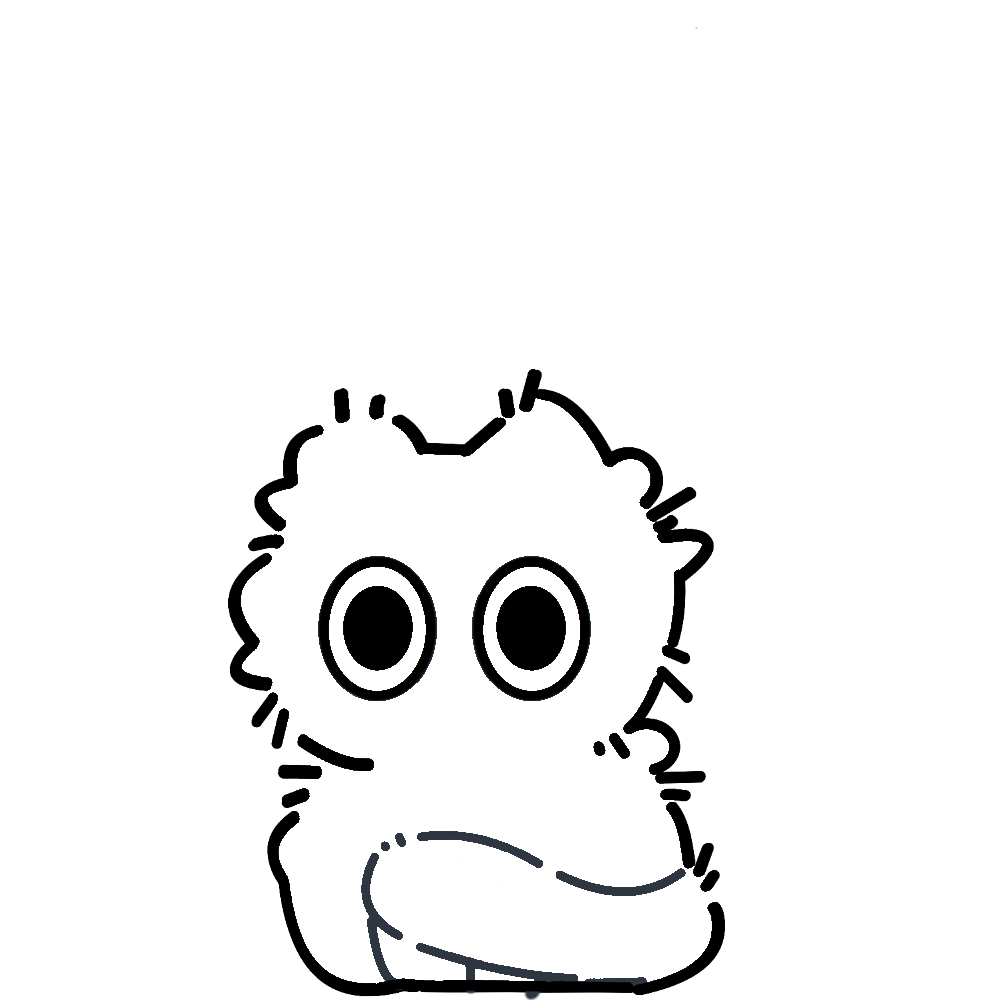
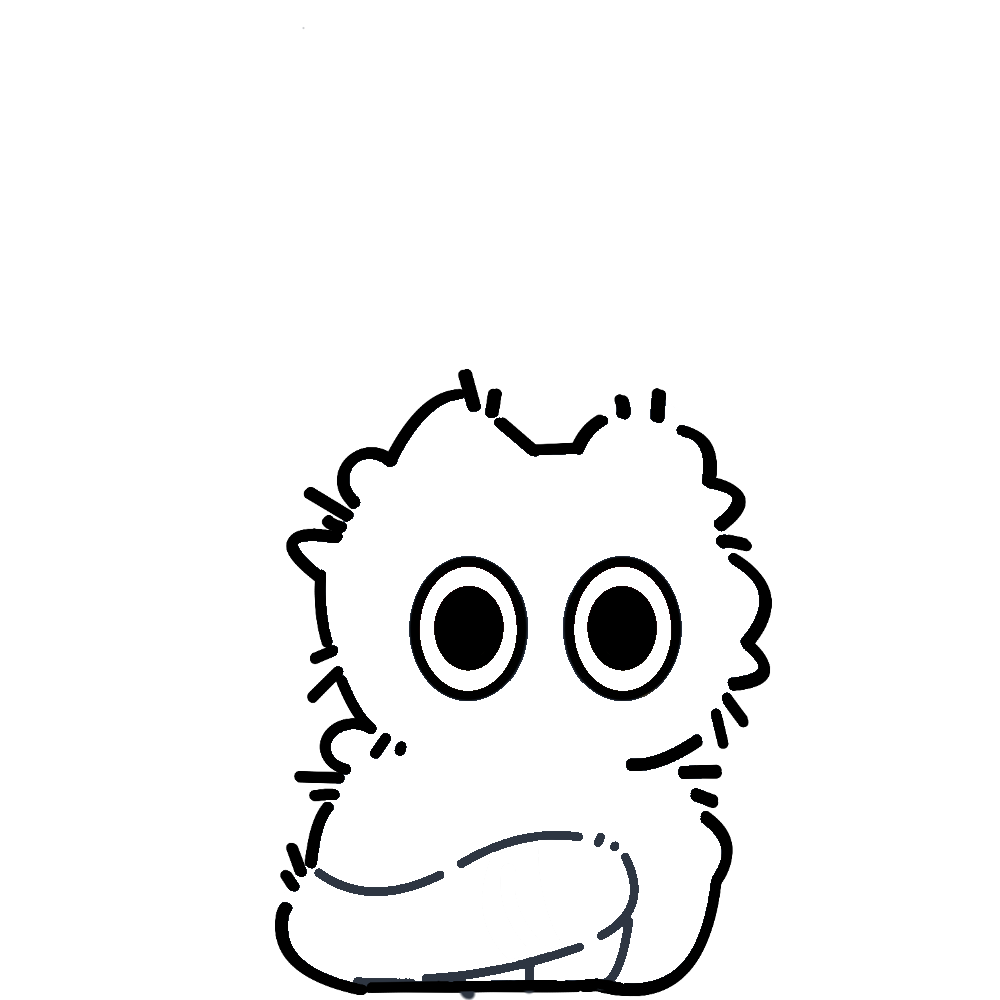
feat: summoned home-preview animation pool and Bai Su outing assets

Changed region(s): [[0.217, 0.372, 0.775, 1.0], [0.434, 0.806, 0.589, 0.868]]

diff --git a/app/src/main/java/com/cx/cakepet/PreviewPlayer.kt b/app/src/main/java/com/cx/cakepet/PreviewPlayer.kt
@@ -30,30 +30,57 @@ class PreviewPlayer(
     private var summonedPlaceholder: Bitmap? = null
     private val handler = Handler(Looper.getMainLooper())
     private var running = false
+    private var previewScene = ""
     private var lastTick = 0L
     private val FRAME_MS = 33L   // 约 30fps 推进状态机，足够平滑且省电
 
     fun start() {
-        if (running) return
+        if (running && previewScene == "normal") return
+        stop()
+        previewScene = "normal"
         running = true
-        // 进入“无重力静止池”，从静坐开始（正式配置的自然起点，等同“静坐一遍”的起点）。
-        // 起点动作由素材包 functions 的 [static, sit] 提供（v1.01），代码不写死模式名；
-        // 包未提供该功能则保持当前动作（跳过，不回退）。
+        // Ordinary home previews retain their existing independent static-pool behavior.
+        mgr.setActiveStateFunction(null)
         mgr.useStaticPool = true
         mgr.modeOf("static", "sit")?.let { mgr.setMode(it) }
         lastTick = System.currentTimeMillis()
-        renderCurrent()     // 立即渲染起始帧
+        renderCurrent()
+        postTick()
+    }
+
+    /** Summoned cards use their own optional function pool, not a frozen placeholder.
+     * Normal Mode frames, continuation links and pool reselection are unchanged.
+     */
+    fun startSummonedPreview() {
+        if (running && previewScene == "summoned") return
+        val path = MaterialFunctionSupport.SUMMONED
+        val startMode = mgr.modeOf(*path.toTypedArray())
+        if (startMode == null) {
+            showSummonedPlaceholder()
+            return
+        }
+        stop()
+        previewScene = "summoned"
+        mgr.useStaticPool = true
+        mgr.setActiveStateFunction(path)
+        mgr.setMode(startMode)
+        running = true
+        lastTick = System.currentTimeMillis()
+        renderCurrent()
+        imageView.contentDescription = "已召唤 · 展示动画"
         postTick()
     }
 
     fun stop() {
         running = false
+        previewScene = ""
         handler.removeCallbacksAndMessages(null)
     }
 
     /** Keep a stable frame without scheduling periodic animation ticks. */
     fun showStatic() {
         stop()
+        mgr.setActiveStateFunction(null)
         mgr.useStaticPool = true
         mgr.modeOf("static", "sit")?.let { mgr.setMode(it) }
         renderCurrent()
@@ -62,6 +89,8 @@ class PreviewPlayer(
     /** Small neutral placeholder: the pet has left the home preview and is on screen. */
     fun showSummonedPlaceholder() {
         stop()
+        mgr.setActiveStateFunction(null)
+        previewScene = "placeholder"
         val bitmap = summonedPlaceholder ?: Bitmap.createBitmap(
             boxPx, boxPx, Bitmap.Config.ARGB_8888).also { summonedPlaceholder = it }
         val canvas = Canvas(bitmap)

diff --git a/app/src/main/java/com/cx/cakepet/RolePackEditorActivity.kt b/app/src/main/java/com/cx/cakepet/RolePackEditorActivity.kt
@@ -3352,6 +3352,8 @@ open class RolePackEditorActivity : AppCompatActivity() {
             "feed/food" -> "食物"
             "standby/pool" -> "待机池"
             "standby/static_pool" -> "静止待机池"
+            "menu/pool" -> "手动选择"
+            "menu/summoned" -> "已召唤"
             else -> when (path.last()) {
                 "standby" -> "待机"
                 "touch" -> "抛掷"
@@ -3359,7 +3361,7 @@ open class RolePackEditorActivity : AppCompatActivity() {
                 "climb" -> "攀岩"
                 "pat_head" -> if (path.size == 1) "摸摸头" else "摸头"
                 "feed" -> "投食"
-                "menu" -> "菜单动画"
+                "menu" -> "角色展示"
                 "pool" -> "动画池"
                 "roll" -> "滚动"
                 "lift_up" -> "提起"
@@ -3404,7 +3406,8 @@ open class RolePackEditorActivity : AppCompatActivity() {
         "pat_head/pat_head" -> "正常状态下摸头互动时播放"
         "feed/eat" -> "角色接受投喂并进食时播放"
         "feed/food" -> "投喂时显示的食物动画"
-        "menu/pool" -> "菜单中供手动选择的动画"
+        "menu/pool" -> "在长按菜单中手动选择播放的动画"
+        "menu/summoned" -> "召唤到桌面后，首页角色预览播放的动画"
         else -> "执行该功能时，从关联动画中选择播放"
     }.replace("角色", "「${root.optString("name").ifBlank { "素材包" }}」")
 
@@ -3420,7 +3423,7 @@ open class RolePackEditorActivity : AppCompatActivity() {
         "climb/forage" -> "角色自动寻找食物时的动画"
         "pat_head" -> "角色被摸头时的互动动画"
         "feed" -> "角色接受投喂时的动画"
-        "menu" -> "菜单中可手动选择的动画"
+        "menu" -> "首页角色预览与长按菜单使用的展示动画"
         else -> "展开查看该分类下的功能"
     }.replace("角色", "「${root.optString("name").ifBlank { "素材包" }}」")
 

diff --git a/app/src/main/java/com/cx/cakepet/MainActivity.kt b/app/src/main/java/com/cx/cakepet/MainActivity.kt
@@ -207,7 +207,7 @@ class MainActivity : AppCompatActivity() {
         val away = active &&
             PersonalizationPrefs.homePreviewMode(this) == PersonalizationPrefs.DYNAMIC
         when {
-            away -> player.showSummonedPlaceholder()
+            away -> player.startSummonedPreview()
             PersonalizationPrefs.animatedPreview(this) -> player.start()
             else -> player.showStatic()
         }

diff --git a/app/src/main/java/com/cx/cakepet/MaterialFunctionSupport.kt b/app/src/main/java/com/cx/cakepet/MaterialFunctionSupport.kt
@@ -9,6 +9,8 @@ import org.json.JSONObject
  */
 internal object MaterialFunctionSupport {
     val STATIC = listOf("standby", "static_pool")
+    /** Optional home-card preview pool while this role is summoned onto the screen. */
+    val SUMMONED = listOf("menu", "summoned")
     val NORMAL = listOf("standby", "pool")
     val THROW = listOf("touch", "roll")
     val SNAP = listOf("snap", "snap_head")

diff --git a/app/src/main/java/com/cx/cakepet/RolePackNormalizer.kt b/app/src/main/java/com/cx/cakepet/RolePackNormalizer.kt
@@ -20,7 +20,8 @@ internal object RolePackNormalizer {
         } + listOf(
             listOf("climb", "leap", "leap"),
             listOf("climb", "leap", "landing"),
-            listOf("climb", "forage", "move")
+            listOf("climb", "forage", "move"),
+            MaterialFunctionSupport.SUMMONED
         )
     ).distinct()
 
